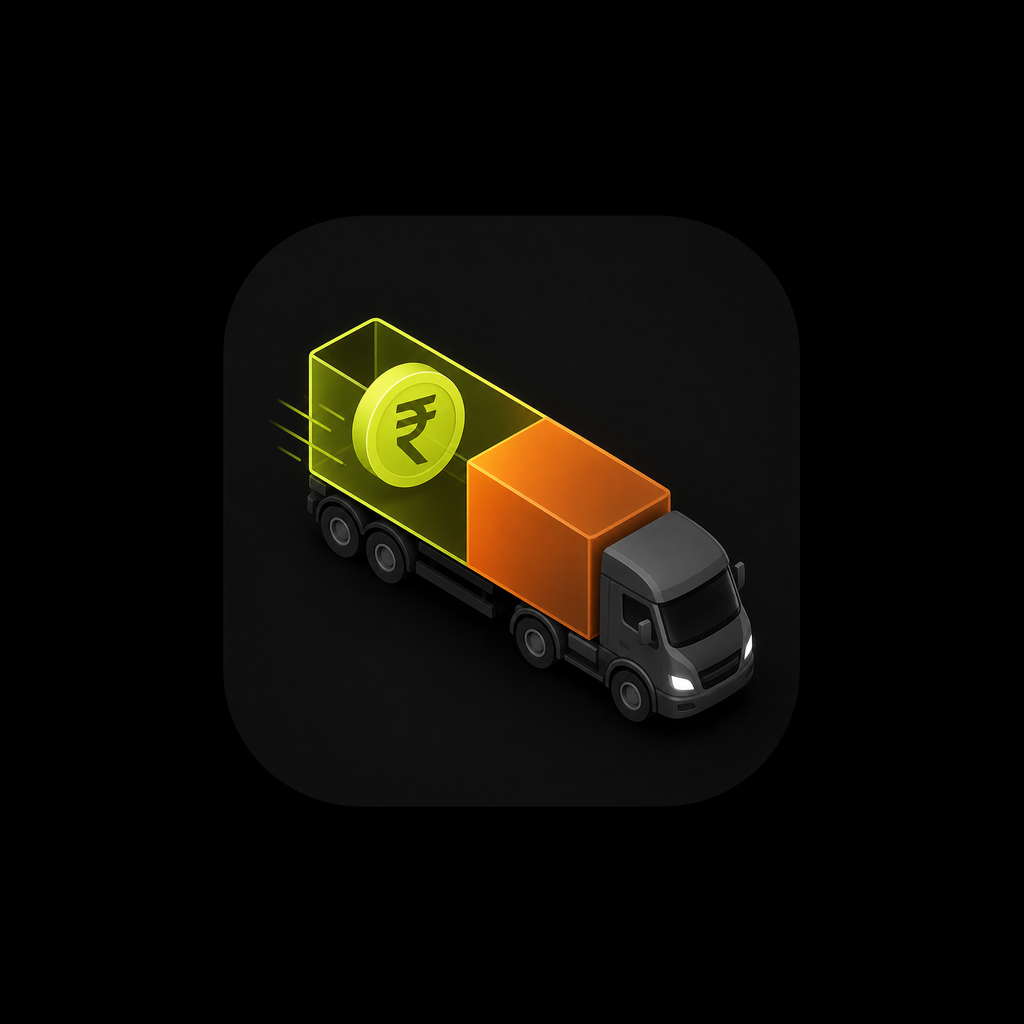
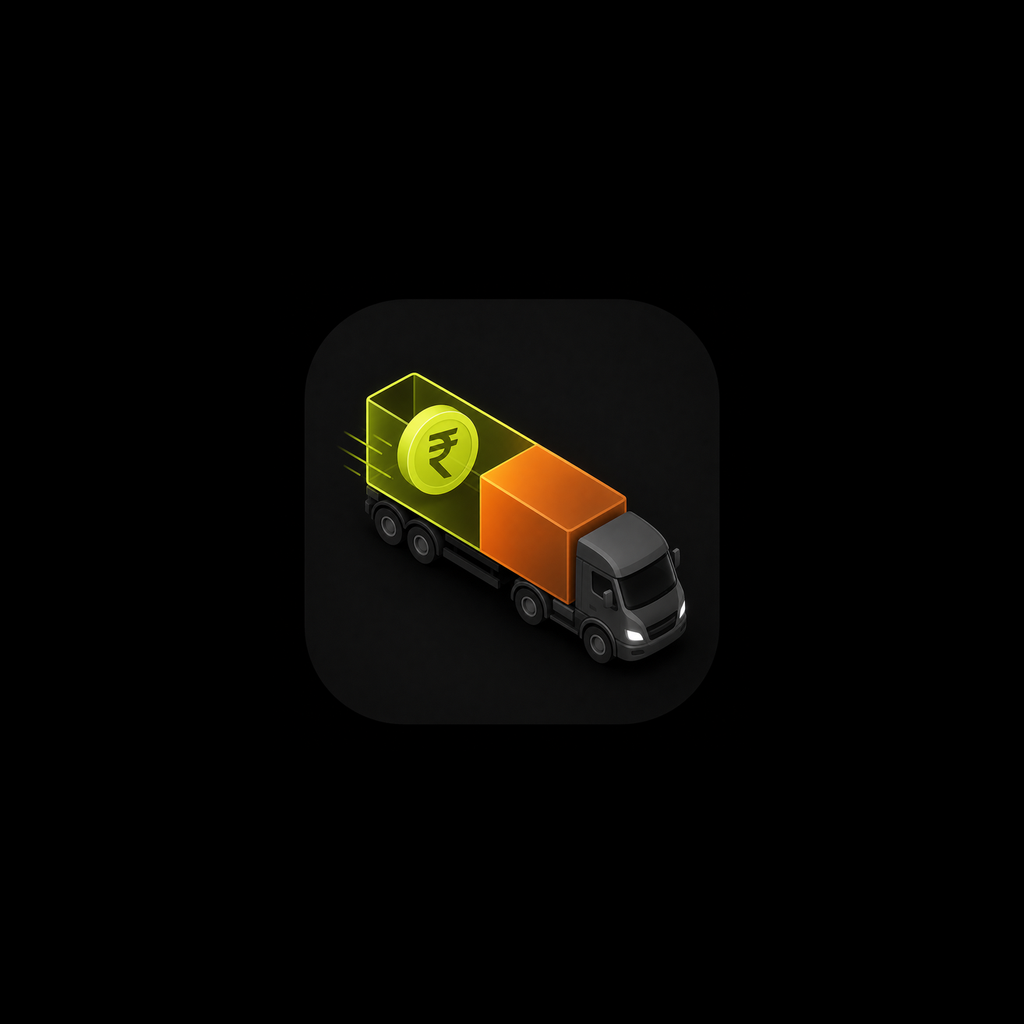
auto-commit for 11fe4c85-3380-4d03-bf9b-a68d469e2504

Changed region(s): [[0.2812, 0.3125, 0.75, 0.7188]]

diff --git a/frontend/app/index.tsx b/frontend/app/index.tsx
@@ -1982,17 +1982,30 @@ function SmartRouteInput({ label, testIDPrefix, text, pin, info, onChange }: {
               const loc = (info.locality || "").trim();
               const cty = (info.city || "").trim();
               const areaLine = loc && loc.toLowerCase() !== cty.toLowerCase() ? loc : cty;
-              return areaLine ? (
+              if (!areaLine) return null;
+              // Adaptive font size for the 2nd line: short text uses the same
+              // 17px as line 1; long text shrinks down (min 10px) so it always
+              // fits the card width on a single line. Length-based scaling is
+              // used because adjustsFontSizeToFit is unreliable on Android.
+              const len = areaLine.length;
+              const adaptiveSize =
+                len <= 11 ? 17 :
+                len <= 13 ? 16 :
+                len <= 15 ? 15 :
+                len <= 17 ? 14 :
+                len <= 19 ? 13 :
+                len <= 22 ? 12 :
+                len <= 25 ? 11 : 10;
+              return (
                 <Text
-                  style={sriStyles.locality}
+                  style={[sriStyles.locality, { fontSize: adaptiveSize }]}
                   numberOfLines={1}
-                  adjustsFontSizeToFit
-                  minimumFontScale={0.55}
+                  ellipsizeMode="tail"
                   allowFontScaling={false}
                 >
                   {areaLine}
                 </Text>
-              ) : null;
+              );
             })()}
             <Text style={sriStyles.cityState} numberOfLines={1}>
               {info.city}{info.city && info.state ? ", " : ""}{info.state}

diff --git a/backend/tests/test_geocode_filter.py b/backend/tests/test_geocode_filter.py
@@ -4,7 +4,7 @@ import time
 import requests
 import pytest
 
-BASE_URL = os.environ.get("EXPO_PUBLIC_BACKEND_URL", "https://post-truck-space.preview.emergentagent.com").rstrip("/")
+BASE_URL = os.environ.get("EXPO_PUBLIC_BACKEND_URL", "https://mobile-ui-polish-11.preview.emergentagent.com").rstrip("/")
 API = f"{BASE_URL}/api"
 
 

diff --git a/backend/tests/test_loadlink_api.py b/backend/tests/test_loadlink_api.py
@@ -3,7 +3,7 @@ import os
 import requests
 import pytest
 
-BASE_URL = os.environ.get("EXPO_PUBLIC_BACKEND_URL", "https://post-truck-space.preview.emergentagent.com").rstrip("/")
+BASE_URL = os.environ.get("EXPO_PUBLIC_BACKEND_URL", "https://mobile-ui-polish-11.preview.emergentagent.com").rstrip("/")
 API = f"{BASE_URL}/api"
 
 

diff --git a/memory/PRD.md b/memory/PRD.md
@@ -1,83 +1,28 @@
-# Truck Traffic PTL — Truck Space Marketplace
+# Truck Traffic PTL — PRD
 
-## Overview
-Mobile app (Expo React Native) for Indian truck operators to monetize excess truck space by posting available truck space and finding truck space from others. Branded as **Truck Traffic PTL**.
+## Original problem statement (current iteration)
+Verify two commits (05142fa & 9dcae73) cover:
+1. App-drawer icon getting cut on phones that apply a circular mask
+2. Route input 2nd line font getting cut for long localities
+3. Profile post edit must allow editing images
 
-## Tech Stack
-- Frontend: Expo (React Native), expo-router, AsyncStorage, @react-native-community/datetimepicker, @expo/vector-icons.
-- Backend: FastAPI + MongoDB (motor), deployed on Render at https://ptl-market.onrender.com.
-- External APIs: api.postalpincode.in (free), Mappls Autosuggest, OpenStreetMap Nominatim geocode.
+## Architecture
+- React Native + Expo (Android-first), expo-router, TypeScript
+- FastAPI + MongoDB backend, hosted at ptl-market.onrender.com
+- Native Firebase Phone Auth (Android) for OTP login
 
-## Screens
-- **Phone OTP Verification** (Firebase Phone Auth) — first launch only.
-- **Profile Setup** — Name + auto-filled verified phone + optional company.
-- **Post Truck Space** (renamed from "Post Space"):
-  - Field order: Route → Loading Date → Truck Type → Available Load Capacity (weight) → Available Space (dimensions) → Pricing → Cargo Placement → Photos.
-  - Mandatory: Route, Loading Date, Truck Type, Weight. Optional: Dimensions, Price, Cargo Placement, Photos.
-  - Loading Date opens calendar limited to a 2-week window from today.
-  - Dimensions: 3 whole-number side-by-side inputs (L max 40, B max 8, H max 9 ft).
-  - Price/ton: numeric whole, ₹ prefix, "/ ton" suffix.
-  - Filled fields get a green border (cargo placement keeps its own green/red).
-  - Cargo placement: tap selected option again to deselect.
-- **Find Truck Space** (renamed from "Load Market"):
-  - Header button renamed to **Filter** (was "Find Space").
-  - Filter popup is full-screen with back arrow (eliminates keyboard overlap).
-  - Cargo weight input is in **tons**, not kg.
-  - Load cards now show: truck miniature image + weight + dimensions + price + date + placement on **one horizontally-scrollable line**.
-  - Images don't auto-load; tap **Show Images** to lazy-load thumbnails.
-- **Tab navigation**: Post Truck Space ⇄ Find Truck Space — state is preserved across switches; swipe left/right gestures also switch tabs.
-- **Profile**: "Total ft³" stat removed; phone/avatar/edit retained.
+## Status of the 3 requested changes
+1. **App icon (drawer cutoff)** — DONE
+   - Regenerated `frontend/assets/images/{icon,adaptive-icon,favicon,splash-image}.png`
+   - `adaptive-icon.png`: 1024×1024, transparent bg, content fits inside 62% center (Android adaptive-icon safe-zone spec)
+   - `icon.png` / `splash-image.png`: 1024×1024, solid black bg, content within 78% center
+   - Verified via simulated circular crop — 0 pixels of visible content lost
+2. **Route input 2nd line — adaptive font** — DONE
+   - `frontend/app/index.tsx` `SmartRouteInput`: replaced unreliable `adjustsFontSizeToFit` with a deterministic length-based size tier (17px → 10px). Short localities match line 1’s 17px; long ones step down to fit on one line.
+3. **Profile post edit — edit images** — Already shipped in commit 9dcae73 (verified)
+   - `EditLoadModal` fetches existing images via `GET /api/loads/{id}/full`, allows add (≤3) / remove, and submits `images` in `PATCH /api/loads/{id}`. Backend `LoadUpdate.images` and PATCH handler are in place.
 
-## Route Input Display (Post + Find)
-Each route box now shows three lines: **Pincode** / **Area or locality** / **City, State**.
-
-## Branding
-- App name: **Truck Traffic PTL** (was "LoadLink"). Reflected in header, profile welcome, WhatsApp share text, app.json `name`/`slug`.
-- Logo: New custom logo (orange/yellow truck with ₹ coin on black background) used in header, profile screen, app icon, and Android adaptive icon.
-
-## API Endpoints
-- `GET /api/` — health check
-- `GET /api/pincode/{pincode}` — `{pincode, city, state, valid}`
-- `GET /api/city/{name}` — city search via India Post
-- `GET /api/places?query=...` — Mappls Autosuggest proxy
-- `GET /api/geocode/{pincode}` — lat/lon (Nominatim, cached)
-- `POST /api/loads` — create load (now accepts `dimension_length`, `dimension_breadth`, `dimension_height`, `price_per_ton` as optional fields)
-- `GET /api/loads?origin=&destination=` — list loads (newest first)
-- `PATCH /api/loads/{id}` — edit own load
-- `DELETE /api/loads/{id}` — delete own load
-- `GET /api/loads/{id}/image/{idx}` — load image (cached 24h)
-- `POST /api/auth/verify-token` — verify Firebase ID token
-
-## Data Model (`loads` collection)
-```
-id, origin_pincode, origin_locality, origin_city, origin_state,
-destination_pincode, destination_locality, destination_city, destination_state,
-cargo_types[], cargo_placement, truck_type,
-weight_tons, space_cuft,
-dimension_length, dimension_breadth, dimension_height, price_per_ton,
-loading_date, poster_name, poster_phone, poster_company, created_at, images[]
-```
-
-## Recent Changes (May 2026)
-- **Native Firebase Phone Auth audit + auto-read OTP**: Migrated the OTP screen from the basic `signInWithPhoneNumber` flow to the full state-machine flow using `auth().verifyPhoneNumber(...).on('state_changed', ...)` + `auth().onAuthStateChanged(...)`. Handles `CODE_SENT`, `AUTO_VERIFIED` (silent SMS Retriever — no SMS permission needed), `AUTO_VERIFY_TIMEOUT`, and `ERROR` states. On a properly configured Android build, the SMS is verified silently and the user is signed in **without typing the OTP**. Removed `expo-web-browser` (was unused). Verified there is **no** Firebase Web SDK, **no** `RecaptchaVerifier`, **no** `signInWithRedirect`, **no** `firebaseapp.com` redirect, **no** `sessionStorage`, and **no** `expo-auth-session` anywhere in the code path. Added `@react-native-firebase/app` config plugin and `expo.android.googleServicesFile` to `app.json` so Expo prebuild keeps the native Firebase config wired on a clean rebuild. Added `expo-build-properties` to pin `minSdkVersion=23` (required by RNFirebase v21).
-- Renamed app to "Truck Traffic PTL" with new logo across header / profile / OTP screens.
-- App icon, adaptive icon, splash, favicon and app-image all updated to new logo. App.json `name` set to `Truck Traffic PTL` (device drawer will show this after APK rebuild).
-- Removed logo image from in-app header (now header shows only "Truck Traffic PTL" text + greeting).
-- Tab labels renamed (Post Truck Space / Find Truck Space) with state preserved + swipe gesture.
-- Added Pricing/ton (₹), Dimensions (L/B/H ft) inputs.
-- Loading Date now opens a calendar picker constrained to today → today+14 days. Added matching -/+ stepper buttons (same size as Available Load Capacity).
-- Field re-ordering: Route → Loading Date → Available Load Capacity → Truck Type → optional sections (Available Space / Pricing / Cargo Placement / Photos).
-- All four optional inputs are now **collapsible accordion sections** (dashed border when empty, solid green when filled, with inline summary). The clutter-free "Add more details (optional)" heading sits above them — no `(optional)` repeated on each title.
-- Dimensions inputs: `ft` suffix lives inside each input box; the `(max 40/8/9)` text was removed (constraints still applied).
-- Filled inputs get green borders.
-- Cargo placement supports deselect (tap selected option to clear).
-- Removed "Total ft³" from profile stats.
-- Find Truck Space: Filter modal made full-screen, cargo weight switched to tons, button renamed to "Filter".
-- LoadCard: truck miniature image instead of text chip; dimensions + price displayed; single-line horizontal-scroll meta row.
-- LoadCard: photos lazy-loaded via "Show Images" button to avoid slow list rendering.
-- Backend: added optional fields `dimension_length`, `dimension_breadth`, `dimension_height`, `price_per_ton` to `LoadCreate`. **NOTE: backend on Render needs redeploy for new fields to persist; pydantic silently drops unknown extras on old backend.**
-
-## Backlog / Next Action Items
-- Deploy backend (server.py changes) to Render so dimension/price fields persist.
-- Optionally extend EditLoadModal to also support dimensions + price + cargo deselect.
-- Consider showing price total (= weight × price/ton) directly in LoadCard as a quick highlight.
+## Backlog / future
+- Add server-side image compression/resize at upload
+- Persist user-preferred locality language for the 2nd line
+- Auto-screenshot diff for app-icon regression
